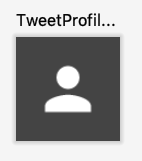
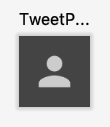
Edit profile image post

Changed region(s): [[0.0818, 0.0709, 0.8727, 0.8976], [0.3, 0.4016, 0.6545, 0.7087]]

diff --git a/_drafts/compose_profile_image.md b/_drafts/compose_profile_image.md
@@ -14,15 +14,15 @@ Unfortunately, these libraries do not currently work with Jetpack Compose. They 
 
 ## Profile image compose function
 
-The initial setup for the profile image mirrors the action row items. A vector asset is needed for the default user photo. This asset is loaded with the `vectorResource` function, which is displayed in a `Container` using the `drawVector` function.
+The initial setup for the profile image mirrors the action row items. A vector asset is needed for the default user photo. This asset is loaded with the `vectorResource` function, which is displayed in an `Icon`.
 
-The icon is added using the [Vector Asset Studio](https://developer.android.com/studio/write/vector-asset-studio) just like the other action row icons. I used the `person` icon for the default asset and named it `ic_profile_photo_default`.
+The icon resource is added using the [Vector Asset Studio](https://developer.android.com/studio/write/vector-asset-studio) just like the other action row icons. I used the `person` icon for the default asset and named it `ic_profile_photo_default`.
 
-With the icon in place, the next step is adding a `@Composable` annotated function for the profile image and grab a reference to the default photo.
+With the resource in place, the next step is adding a `@Composable` annotated function for the profile image and grab a reference to the default photo.
 
 <script src="https://gist.github.com/BrianGardnerAtl/e29f8bfaa8ff74aea529b7fd90a12d65.js"></script>
 
-Next, the default photo is drawn into a `Container` with the `drawVector` function. I tried a few different sizes and ended up liking how the profile image looked at `36dp`.
+Next, the default photo is drawn into an `Icon`. I tried a few different sizes and ended up liking how the profile image looked at `36dp`.
 
 <script src="https://gist.github.com/BrianGardnerAtl/04f5d978aa392922123aafd502db165d.js"></script>
 
@@ -34,7 +34,7 @@ After building the project, both preview functions will render in the preview pa
 
 <img class="post-image" src="/assets/images/compose_7/two_preview_functions.png" alt="Preview pane showing two composable views rendered"/>
 
-While the icon is displayed on the screen, it is difficult to see on a light background. Drawing the icon on top of a dark gray background would help it stand out. This is accomplished by wrapping the icon `Container` in a `Surface` function and providing a background color. The `Surface` is drawn first and the icon is then drawn on top of it.
+While the icon is displayed on the screen, it is difficult to see on a light background. Drawing the icon on top of a dark gray background would help it stand out. This is accomplished by wrapping the icon `Icon` in a `Surface` function and providing a background color. The `Surface` is drawn first and the icon is then drawn on top of it.
 
 <script src="https://gist.github.com/BrianGardnerAtl/ec69631156c5f8c0b97b96829832f839.js"></script>
 
@@ -56,7 +56,7 @@ This code produces the pleasing, round profile image I am looking for.
 
 The last update to the profile image is to add padding. I attempted to add the padding directly to the `drawClip` modifier on the `Surface` but this caused the surface to render as a square again. I am not sure if this is a bug on the `Surface` or not, but I had to find another solution.
 
-What I came up with is to wrap the `Surface` function in another `Container` and add the padding to that.
+What I came up with is to wrap the `Surface` function in a `Box` and add the padding to that.
 
 <script src="https://gist.github.com/BrianGardnerAtl/a610a4dd306471361d2d85c888eb982a.js"></script>
 
@@ -76,8 +76,8 @@ This displays the user's profile image in the correct place in the `TweetView`.
 
 <img class="post-image" src="/assets/images/compose_7/tweet_view_with_profile_image.png" alt="Preview pane showing the profile image displayed in the tweet view."/>
 
-With that, the basic Tweet view is complete! It has been a long journey to get here but along the way I have learned a lot about how compose displays data on the screen and I have grown to love this type of view creation. I am excited to see what Jetpack Compose introduces in the future and how it will change Android development.
+With that, the basic Tweet view is complete! It has been a long journey to get here but along the way I have learned a lot about how Compose displays data on the screen and I have grown to love this type of view creation. I am excited to see what Jetpack Compose introduces in the future and how it will change Android development.
 
-Fortunately, this blog series is not ending here. In future posts I am going to focus on displaying a list of my `TweetView`s, displaying a floating action button above the list for adding a Tweet, and modifying the theme of my app.
+Fortunately, this blog series is not ending here. In future posts I am going to focus on displaying a list of my `TweetView`s, adding an App Bar, displaying a floating action button above the list for adding a Tweet, and modifying the theme of my app.
 
 Thanks again for reading and stay tuned for more!
